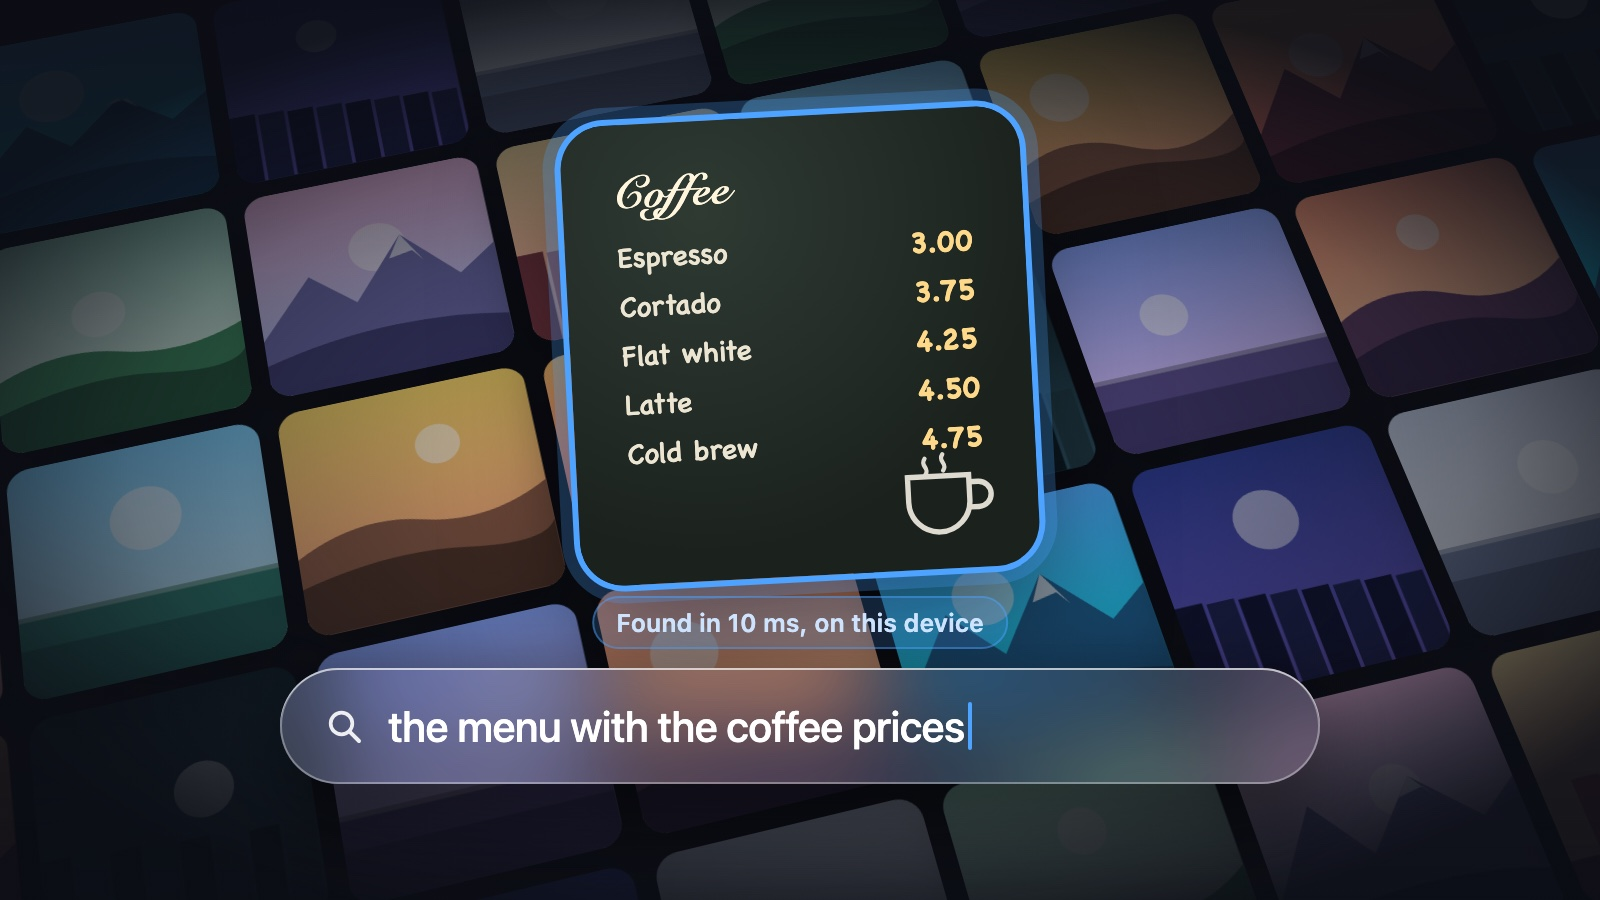
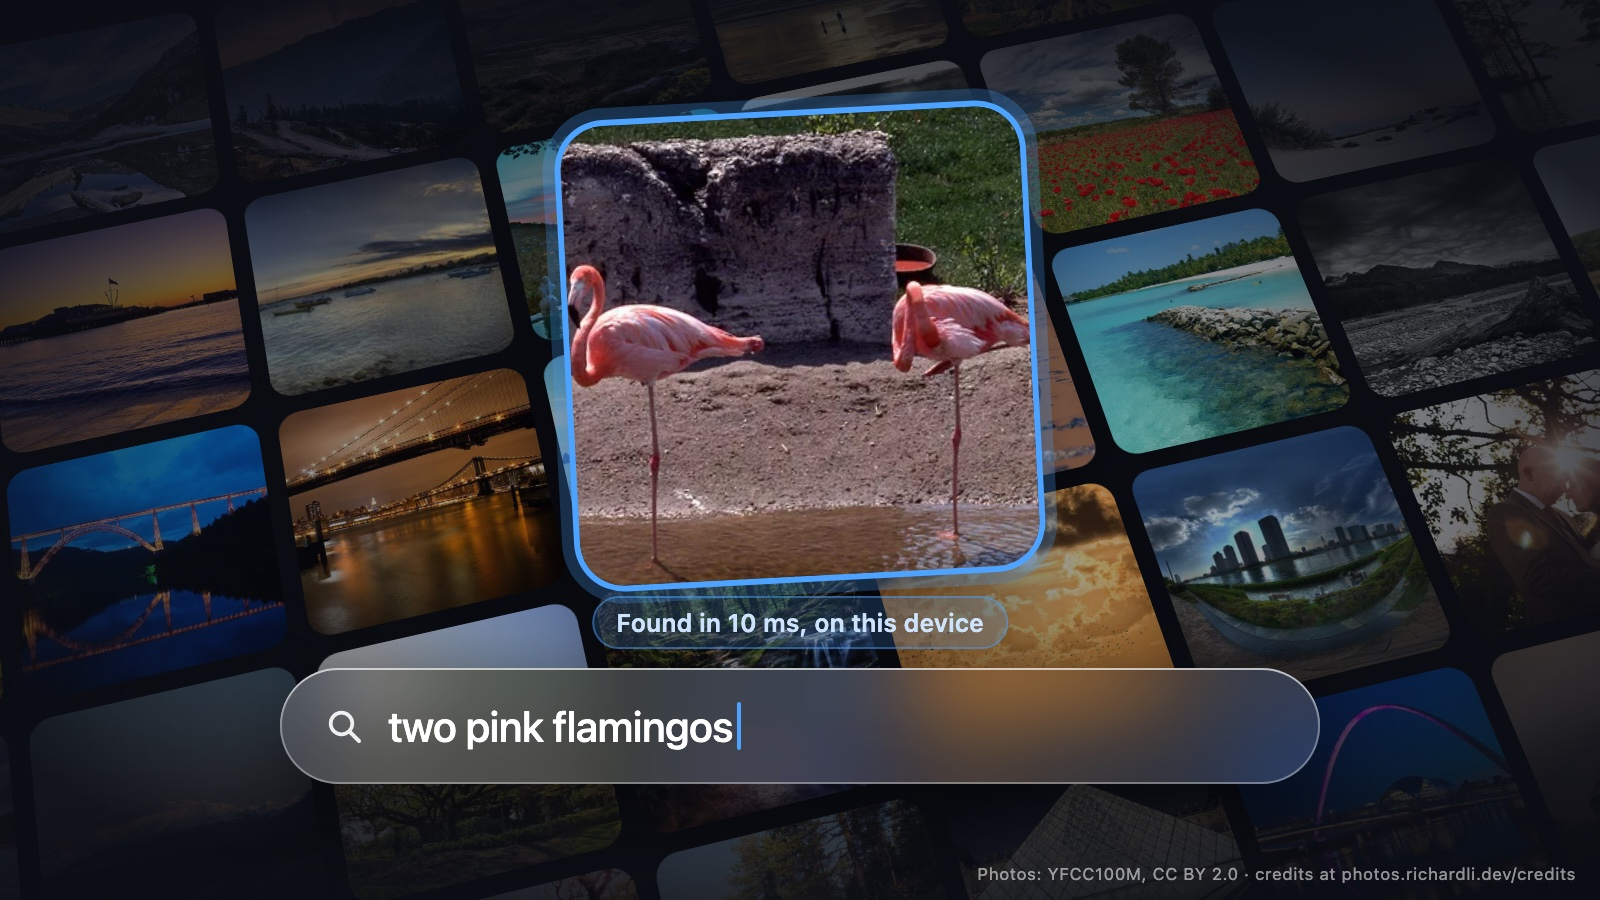
Feat: use real demo photos in the photo search thumbnail

diff --git a/app/experiments/page.tsx b/app/experiments/page.tsx
@@ -122,7 +122,7 @@ const EXPERIMENTS: Experiment[] = [
   },
   {
     title: "Search every photo you own by describing it, on-device",
-    image: "/images/projects/experiments/photo-search.jpg", // drawn, not a screenshot: real results would show other people's photos (CC BY, needing credits)
+    image: "/images/projects/experiments/photo-search.jpg", // real demo photos (YFCC100M, CC BY 2.0, credited in the image); the highlight is the demo's top result for "two pink flamingos"
     description: "\"The menu with the coffee prices\" finds the menu. SigLIP2, OCR, date and place parsing and a self-trained \"same place\" model all run locally. Right photo first: 67% → 82% for text to photo, 59% → 74% in the search box. Web demo and Mac app; iOS and Android apps in progress.",
     link: "https://photos.richardli.dev", // the hosted demo; the code is public at github.com/RichardLi-1/Photos
   },
